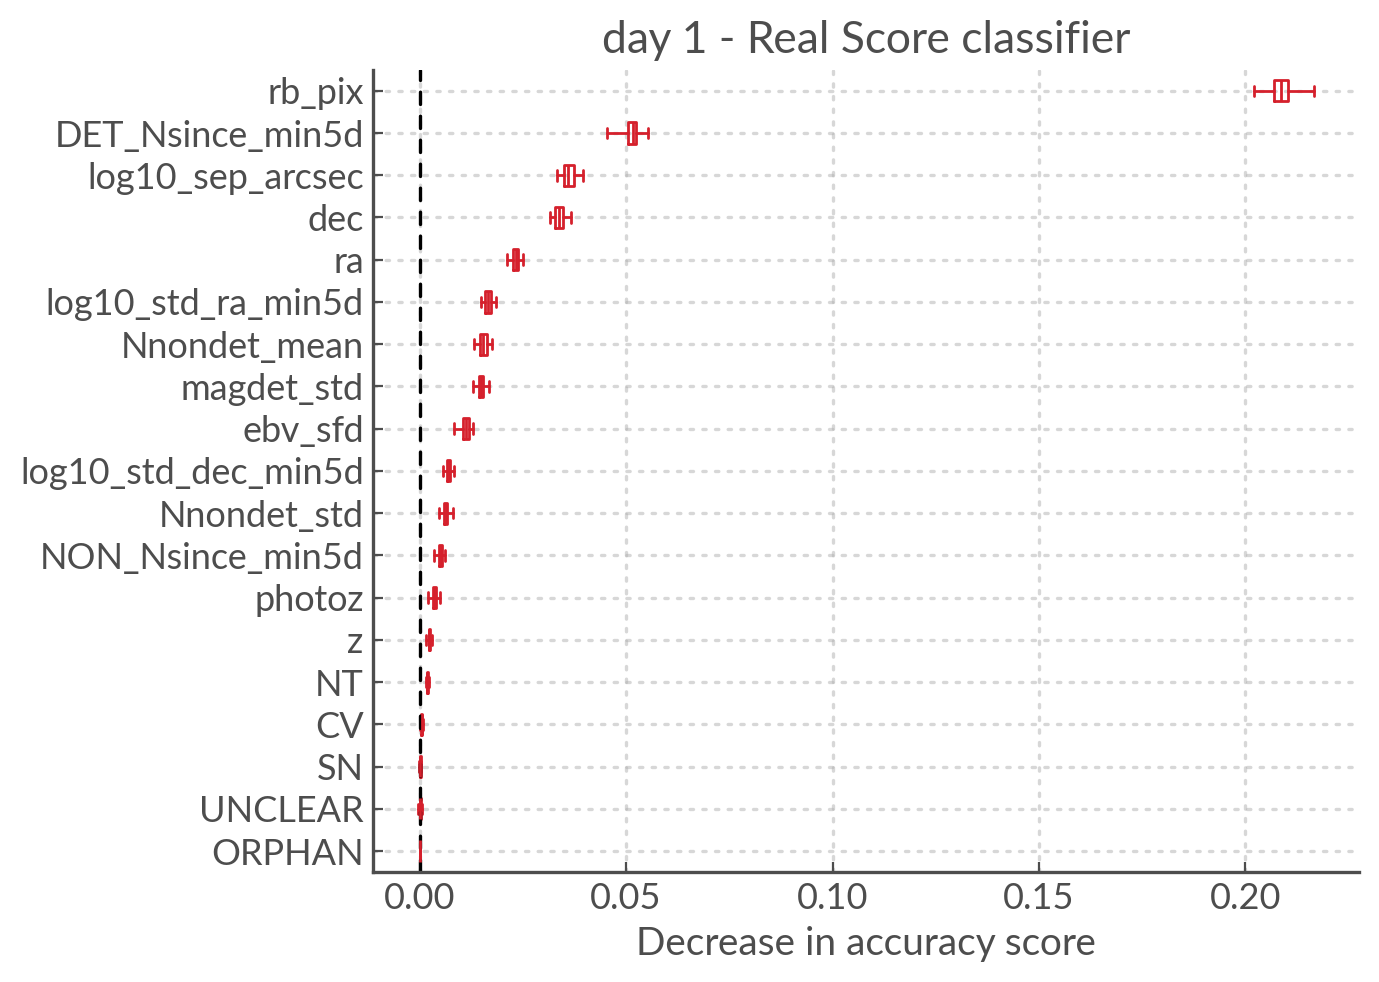
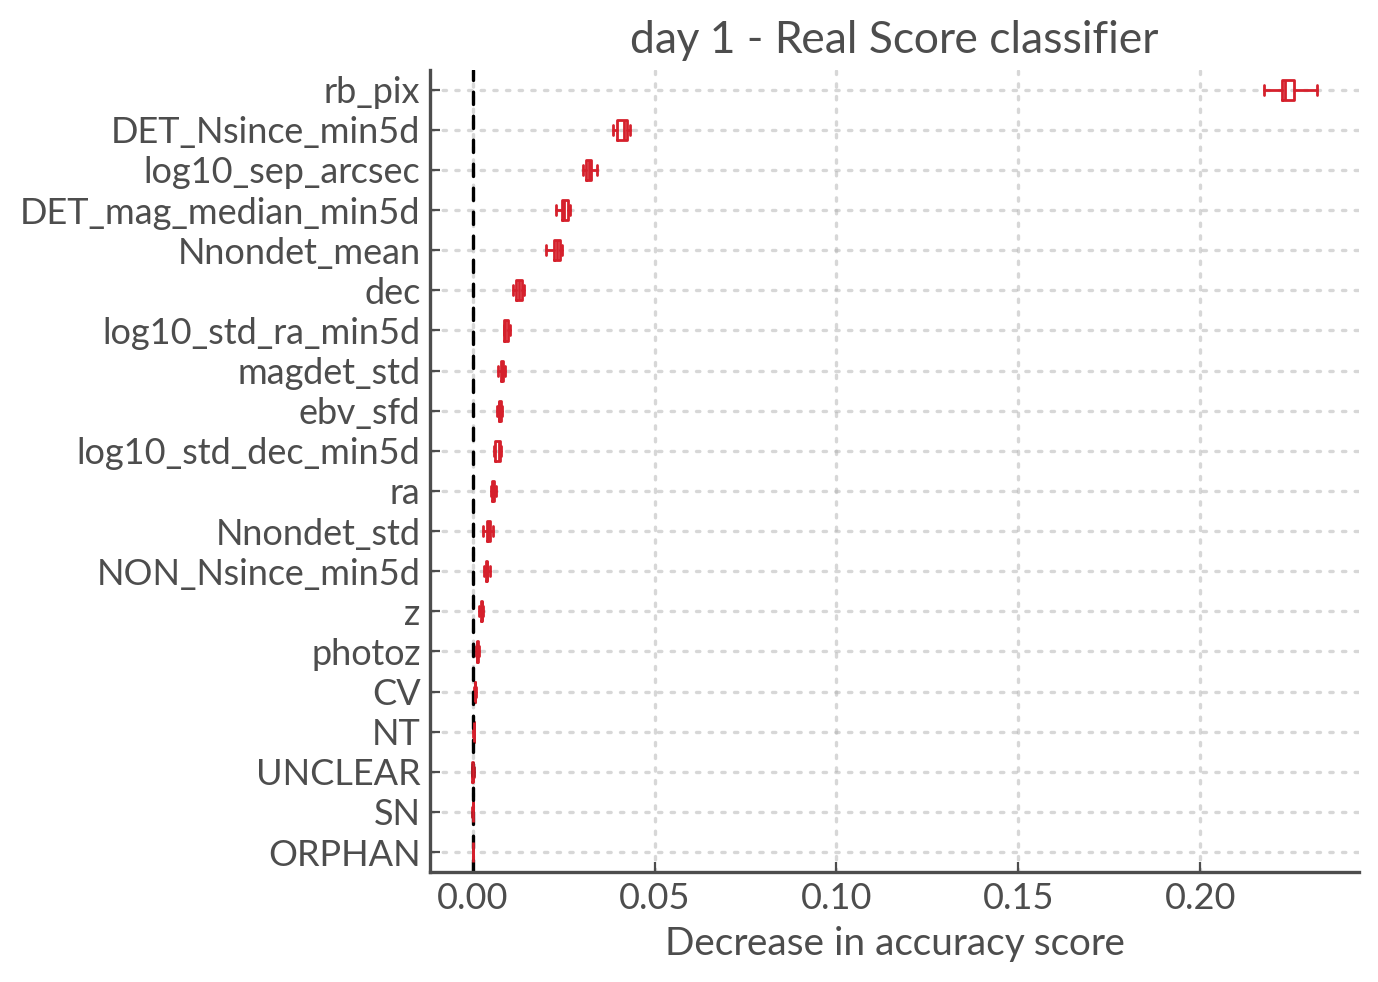
updated the website

diff --git a/docs/source/data.rst b/docs/source/data.rst
@@ -48,7 +48,8 @@ Some Caveats
 
    a. Not all eyeballers use the Proper Motion star list. They will just
       put proper motion alerts in the garbage. This will lead to some confusion
-      between the ``garbage`` and ``pm`` alerts.
+      between the ``garbage`` and ``pm`` alerts. This is not a big deal since ``garbage`` is
+      not longer used as a "NOT GALACTIC" label and is ommited from the galactic classifier training set.
 
    b. Most eyeballers will put galactic events in the ``good`` list if another team
       has mistakenly added those to the TNS. This will lead to some confusion
@@ -59,18 +60,6 @@ Some Caveats
    which will lead to further confusion between the ``galactic`` and ``good`` alerts:
     a. Duplicate supernovae (As of 2025-01-30 we have a duplicate list so they will no longer be in the attic; this will not affect future datasets bu it affects all of Duck)
     b. Suspected AGN activity
-
-3. In the additional data brought by the ``Duck`` data set (from the 13th August 2025 onwards)
-   the VRA was active and auto-garbaging data. This means that a very large fraction of the data recorded
-   from that data didn't receive human eyeballing and was not split into ``PM`` or ``garbage``.
-   To avoid mass re-eyeballing I used the ``Crabby``-trained VRA to predict ``p_real`` and ``p_gal`` for the new data
-   and I assumed the following labels:
-   a.  ``p_real<0.2``, ``p_gal<0.1`` = ``Garbage``
-   b. ``p_real<0.2``, ``p_gal>0.9`` = ``PM``
-
-.. attention::
-   The new iteration of the VRA works really well despite some of the grabage and PM being labelled by the previous model.
-   I am considering trying to use auto-garbage just as a preal == 0 label and not try to use PM and garbage to train the galactic classifier.
 
 Training and Validation sets
 ~~~~~~~~~~~~~~~~~~~~~~~~
@@ -130,7 +119,6 @@ try training on the unbalanced training set and it was a disaster).
 
 
 
-
 .. list-table:: Numbers
    :widths: 25 30 30 30
    :header-rows: 1
@@ -139,28 +127,26 @@ try training on the unbalanced training set and it was a disaster).
      - Training
      - Validation
    * - Auto-Garbage
-     - N/A
-     - 3,590
+     - 1,600
+     - 3,571
    * - Garbage
-     - 4,447
-     - 5,545
+     - 2,921
+     - 5,380
    * - PM
-     - 3,464
-     - 894
+     - 2,736
+     -  905
    * - Galactic
-     - 2,887
-     - 467
+     - 2,899
+     - 457
    * - Good
-     - 4,234
-     - 759
+     - 4,249
+     - 745
    * - **Total**
-     - **15,032**
-     - **11,255**
+     - **14,405**
+     - **11,058**
 
 The training set is not fully balanced because I didn't want to downsample ``Good`` objects
 in the additional data available in ``Duck``.
-Also note the training and validation data sets include some guess labels but the
-reported numbers for the whole data set do not.
 
 The Features
 ------------------
@@ -194,6 +180,9 @@ They currently use the following features:
    * -
      - ``NON_Nsince_min5d``
      - Number of non detections
+   * -
+     - ``DET_mag_median_min5d``
+     - Median magnitude of the detections between phase -5 d and day 1
    * - Positional scatter recent history (last 5 days)
      - ``log10_std_ra_min5d``
      - Log10 of the standard deviation of the RA
@@ -285,10 +274,9 @@ The relation between detections and non detections changes with weather and
 the phase of the moon. I tried to capture that by having features that count
 both and measure both. But this is a loosing battle.
 
-**We need forced photometry** to do a decent job of the lightcurve
+We need forced photometry to do a decent job of the lightcurve
 features. The challenge is that forced photometry is expensive to calculate
 so we don't want to do that on everything in the stream.
-**[NOTE: in Lasair we have FP for ZTF, will we get that for LSST?]**
 
 Feature Importance
 ---------------------------
@@ -358,13 +346,6 @@ offset, whereas stars and NT aren't).
 
 Finally note that ``z`` and ``photoz`` are now showing some importance,
 as we expected.
-
-.. important::
-   *"Why don't you get rid of unimportant features or use different features for the*
-   *galactic and real models?"* Because the models we use are robust to "useless"
-   features and it's easier in prod to calculate all the features at once and then parse
-   them to the two models. Eventually we might prune the features that are useless
-   for both.
 
 
 day N features

diff --git a/docs/source/training.rst b/docs/source/training.rst
@@ -1,12 +1,42 @@
-The Models
+Models and Metrics
 ==================
 
 Histogram based Gradient Boosted Decisions Trees
 --------------------------------------------------------
-**TBW**
+The place our alerts in score space we want to create two classifiers:
+a real/bogus and a galactic/extragalactic  (four if we include the ``day 1`` and ``day N`` variants).
+We chose to use Histogram Based Gradient Boosted Decision Trees (HBGDT) because they have been shown to perform well on tabular data \textbf{[refs]} which is what our data set mostly consists of.
+
+Light curve data in its raw state is a time-series, which is not handled well by such feature-based classifiers.
+This is why we devised an array of features to capture long and short term light-curve behaviour.
+Although there exists other forms of machine learning such as neural networks (especially recurrent neural networks) that could use the raw light-curve as input, there are two reasons why we did not chose to use such models.
+Firstly, neural networks are data-hungry. To be trained effectively they require data sets of order 50 times the number of parameters in the model.
+This would require us to have hundreds of thousands to millions of samples, so we would have to simulate data or over sample what we do have.
+HGBDT however can perform well with only a few thousand examples.
+
+The second reason is that light-curve information is not rich on the timescales considered here, and it is difficult to represent astrophysical time series in classic ML and statistic tools.
+For example these do not natively handle non-detection information (a non-detection is *not* the same as no observation) and that typically requires adding an additional feature (e.g. boolean flag).
+On the whole we prefer engineering features based on our understanding of the light-curve information and our goals.
+
+We use the scikit-learn implementation of the HGBDT, which is based on LightGBM.
+There are several advantages to the histogram based approach, of main importance to us is the native handling of null values.
+In most machine learning models null values need to be imputed, in the HGBDT the feature values are discretised into histograms with (typically) 256 bins, 255 of which are used for numerical values and the final bin for null values \footnote{see manual page for HGBDT in {\tt scikit-learn} \url{https://scikit-learn.org/stable/modules/generated/sklearn.ensemble.HistGradientBoostingClassifier.html}}.
+Another advantage (and the main reason this improvement on the original algorithm was devised) is their speed.
+This is mostly a concern when dealing with tens of thousands of training samples.
+For a more in-depth introduction to gradient boosted classifiers, see **[Appendix in the paper]**.
 
 Area Under the Recall at rank K
 -----------------------------------
-**TBW**
 
+The Recall at rank K (R@K) is defined as the ratio of the  [N relevant alerts in top K] over [N relevant alerts].
+We can plot it to get a curve, and inspired by the AUC I calculated the area under the recall at rank K (AuRaK)
+to use as a metric for the performance of the classifier.
+
+In the Figure below we can see the R@K calculated for our day 1 and day N models, compared to the R@K obtained
+by ordering by ``rb_pix`` (the benchmark). In our benchmark the AuRaK is 0.88; for our day 1 and day N models
+it rises to 0.951 and 0.966 respectively.
+
+.. figure:: _static/ratk_val_dayN_pruned_light.png
+    :width: 800
+    :align: center
 

diff --git a/docs/source/about.rst b/docs/source/about.rst
@@ -5,9 +5,7 @@ The Virtual Research Assistant
 .. _Sherlock: https://lasair.readthedocs.io/en/develop/core_functions/sherlock.html
 .. _Weston et al. 2024: https://ui.adsabs.harvard.edu/abs/2024RASTI...3..385W/abstract
 .. _scikit-learn docs: https://scikit-learn.org/stable/modules/ensemble.html#histogram-based-gradient-boosting
-
-*This page is a high level overview the ATLAS VRA: why it exists and what it does*
-*For more details on the data used to train it and the types of models used you can the Data and Models pages*
+.. _VRA Technical Manual: https://zenodo.org/records/14944209
 
 Data Journey: From Telescope to Transient Name Server
 ------------------------------------------------------------
@@ -105,7 +103,7 @@ Hypothetically that is the alert we care about the most.
 To calculate the ranks we therefore **calculate the distance to that (1,0) point**.
 Then:
 
-- I scale the galactic axis by 0.4 to separate the garbage from the real alerts more effectively.
+- I scale the galactic axis by 0.5 to separate the garbage from the real alerts more effectively.
    It also ensures our eyeballing policy (see below) encompasses the real=1, galactic=1 corner.
 - To get a score between 0 and 10 you also have to invert the distance (the smaller the distance the higher the score),
    normalise by the diagonal of the plot and multiply by 10.
@@ -114,9 +112,6 @@ Then:
 .. important::
    **TL;DR**: The closer to the Real-ExtraGalactic corner (1,0) - the higher the rank.
    A **rank = 10** is a special case were a TNS crossmatch has been found.
-
-.. warning::
-   In the previous version of the VRA the scaling factor was 0.5. This means the new models will give you a few more alerts to eyeball with more contamination down in the rank 4-6. But we're also less likely to miss real galactic alerts.
 
 
 Policies
@@ -133,8 +128,8 @@ Eyeballing
 ~~~~~~~~~~~
 
 The current eyeballing policy is to ask human experts to check everything
-with a ``rank >7.5`` (as an extra-galactic transient candidate)  and everything that
-falls within a distance of 0.45 of the coordinate (1,1) as a galactic candidate.
+with a ``rank >7`` (as an extra-galactic transient candidate)  and everything that
+falls within a distance of 0.40 (galactic axis scaled by 0.9) of the coordinate (1,1) as a galactic candidate.
 You can see below where these strategies fall in score space with respect the
 the distribution of our alerts in our training and validation set.
 
@@ -153,7 +148,7 @@ Garbaging
 
 There are currently three "garbage collection" policies in place:
 
-* On **entering the eyeball list** with ``rank<1.0``
+* On **entering the eyeball list** with ``rank<1.5``
 * On a **second visit**, ``max(rank)<2.0``.
 * On the **third and subsequent visits**, ``mean(rank)<3``.
 
@@ -165,7 +160,8 @@ These are now being handled by ``el01z``  (see the Monitoring section) which has
 alerts that are left in purgatory after they have fallen out of ``st3ph3n`` 's training window.
 There are few of those and they are sent to the slack for eyeballing.
 
-The Paper
+Resources
 ---------------------------------------
-**for more info see the paper [out soon]**
-
+* `VRA Technical Manual`_
+* Data Release [Upcoming]
+* Paper [Upcoming]

diff --git a/docs/source/history.rst b/docs/source/history.rst
@@ -1,9 +1,9 @@
 Change History
 =============
-Note these changes related to eyeballing strategy rather than focusing on the GH cide since
+Note these changes related to eyeballing strategy rather than focusing on the GH site since
 the history of the latter is recorded in the commit history.
 
-VRA 1.1 - Upcoming
+VRA 1.1 - Upcoming - Duck
    - day N feature ``DET_mag_median`` added back in. Marginal gains but also consistent with keeping ``NON_mag_median`` and removing both is worse.
    - day 1 and day N feature ``DET_mag_median_min5d`` added in.
    - Although the clean data we use is the same, the training and validation sets have changed from Duck (Crabby data set is unchanged all changes below apply to the additional data gathered between august and january).
@@ -15,7 +15,7 @@ VRA 1.1 - Upcoming
    - The Galactic flag is calculated using a scalar of 0.9 instead of 1 and a distance of 0.4 instead of 0.45.
    - Fix the purgatory bot
 
-VRA 1.0 - 2025-02-03
+VRA 1.0 - 2025-02-03 - Duck
    - VRA real and galactic models trained on the Duck data-set. Ranges from 27-03-2024 to 22-01-2025
    - The following day1 features were pruned: `SN``, ``ORPHAN``, ``NT``, ``UNCLEAR``
    - The following dayN features were pruned: ``SN``, ``ORPHAN``, ``NT``, ``UNCLEAR``, ``DET_N_today``, ``NON_N_today``, ``DET_mag_median``
@@ -29,6 +29,10 @@ VRA 1.0 - 2025-02-03
    - el01z weekly reports and purgatory sentinel now run on the ATLAS server (Fridays)
    - TNS cross-matching to garbage list done weekly on Friday mornings
 
-VRA beta0.1  - 2024-12-06
+VRA beta0.1  - 2024-12-06 - Crabby
    - VRA real and galactic models trained on the Crabby data-set. Ranges from 27-03-2024 to 13-08-2024
    - Fudge-factor changed to 0.4 (from 0.5)
+   - added new sherlock features: z, photoz, log10 sep arsec, ebv sfd
+
+VRA alpha0.1 - 2024-13-08 - BMO
+   - First VRA in production

diff --git a/docs/source/eyeball.rst b/docs/source/eyeball.rst
@@ -61,7 +61,7 @@ Tips for eyeballer 1
 ----------------------
 
 1. **Start with the Fast Track list**. Also note that you need to eyeball **all** ranks (even the lower ones) in the Fast Track list.
-2. Go back to slack and **click on the eyeball link** provided by ``st3ph3n``. This will take you to the curated eyeball list (ordered and cropped down to rank 4).
+2. Go back to slack and **click on the eyeball link** provided by ``st3ph3n``. This will take you to the curated eyeball list (ordered and cropped down to the eyeballing threshold).
 3. Scroll down to the first alerts that or **not** rank 10 and eyeball these. They are the most promising which haven't yet been pinched by another team.
 4. Finally clean up the rank 10 alerts.
 5. The ATLAS ingest cycle is faster than it used to be so you may get alerts every 30 minutes when there is not a lot of data being ingested.
@@ -78,9 +78,6 @@ Rota
    * - Date
      - Eyeballer 1
      - Eyeballer 2
-   * - 24/02/2024
-     - Alex C
-     - Heloise
    * - 03/03/2024
      - Jack
      - Alex C
